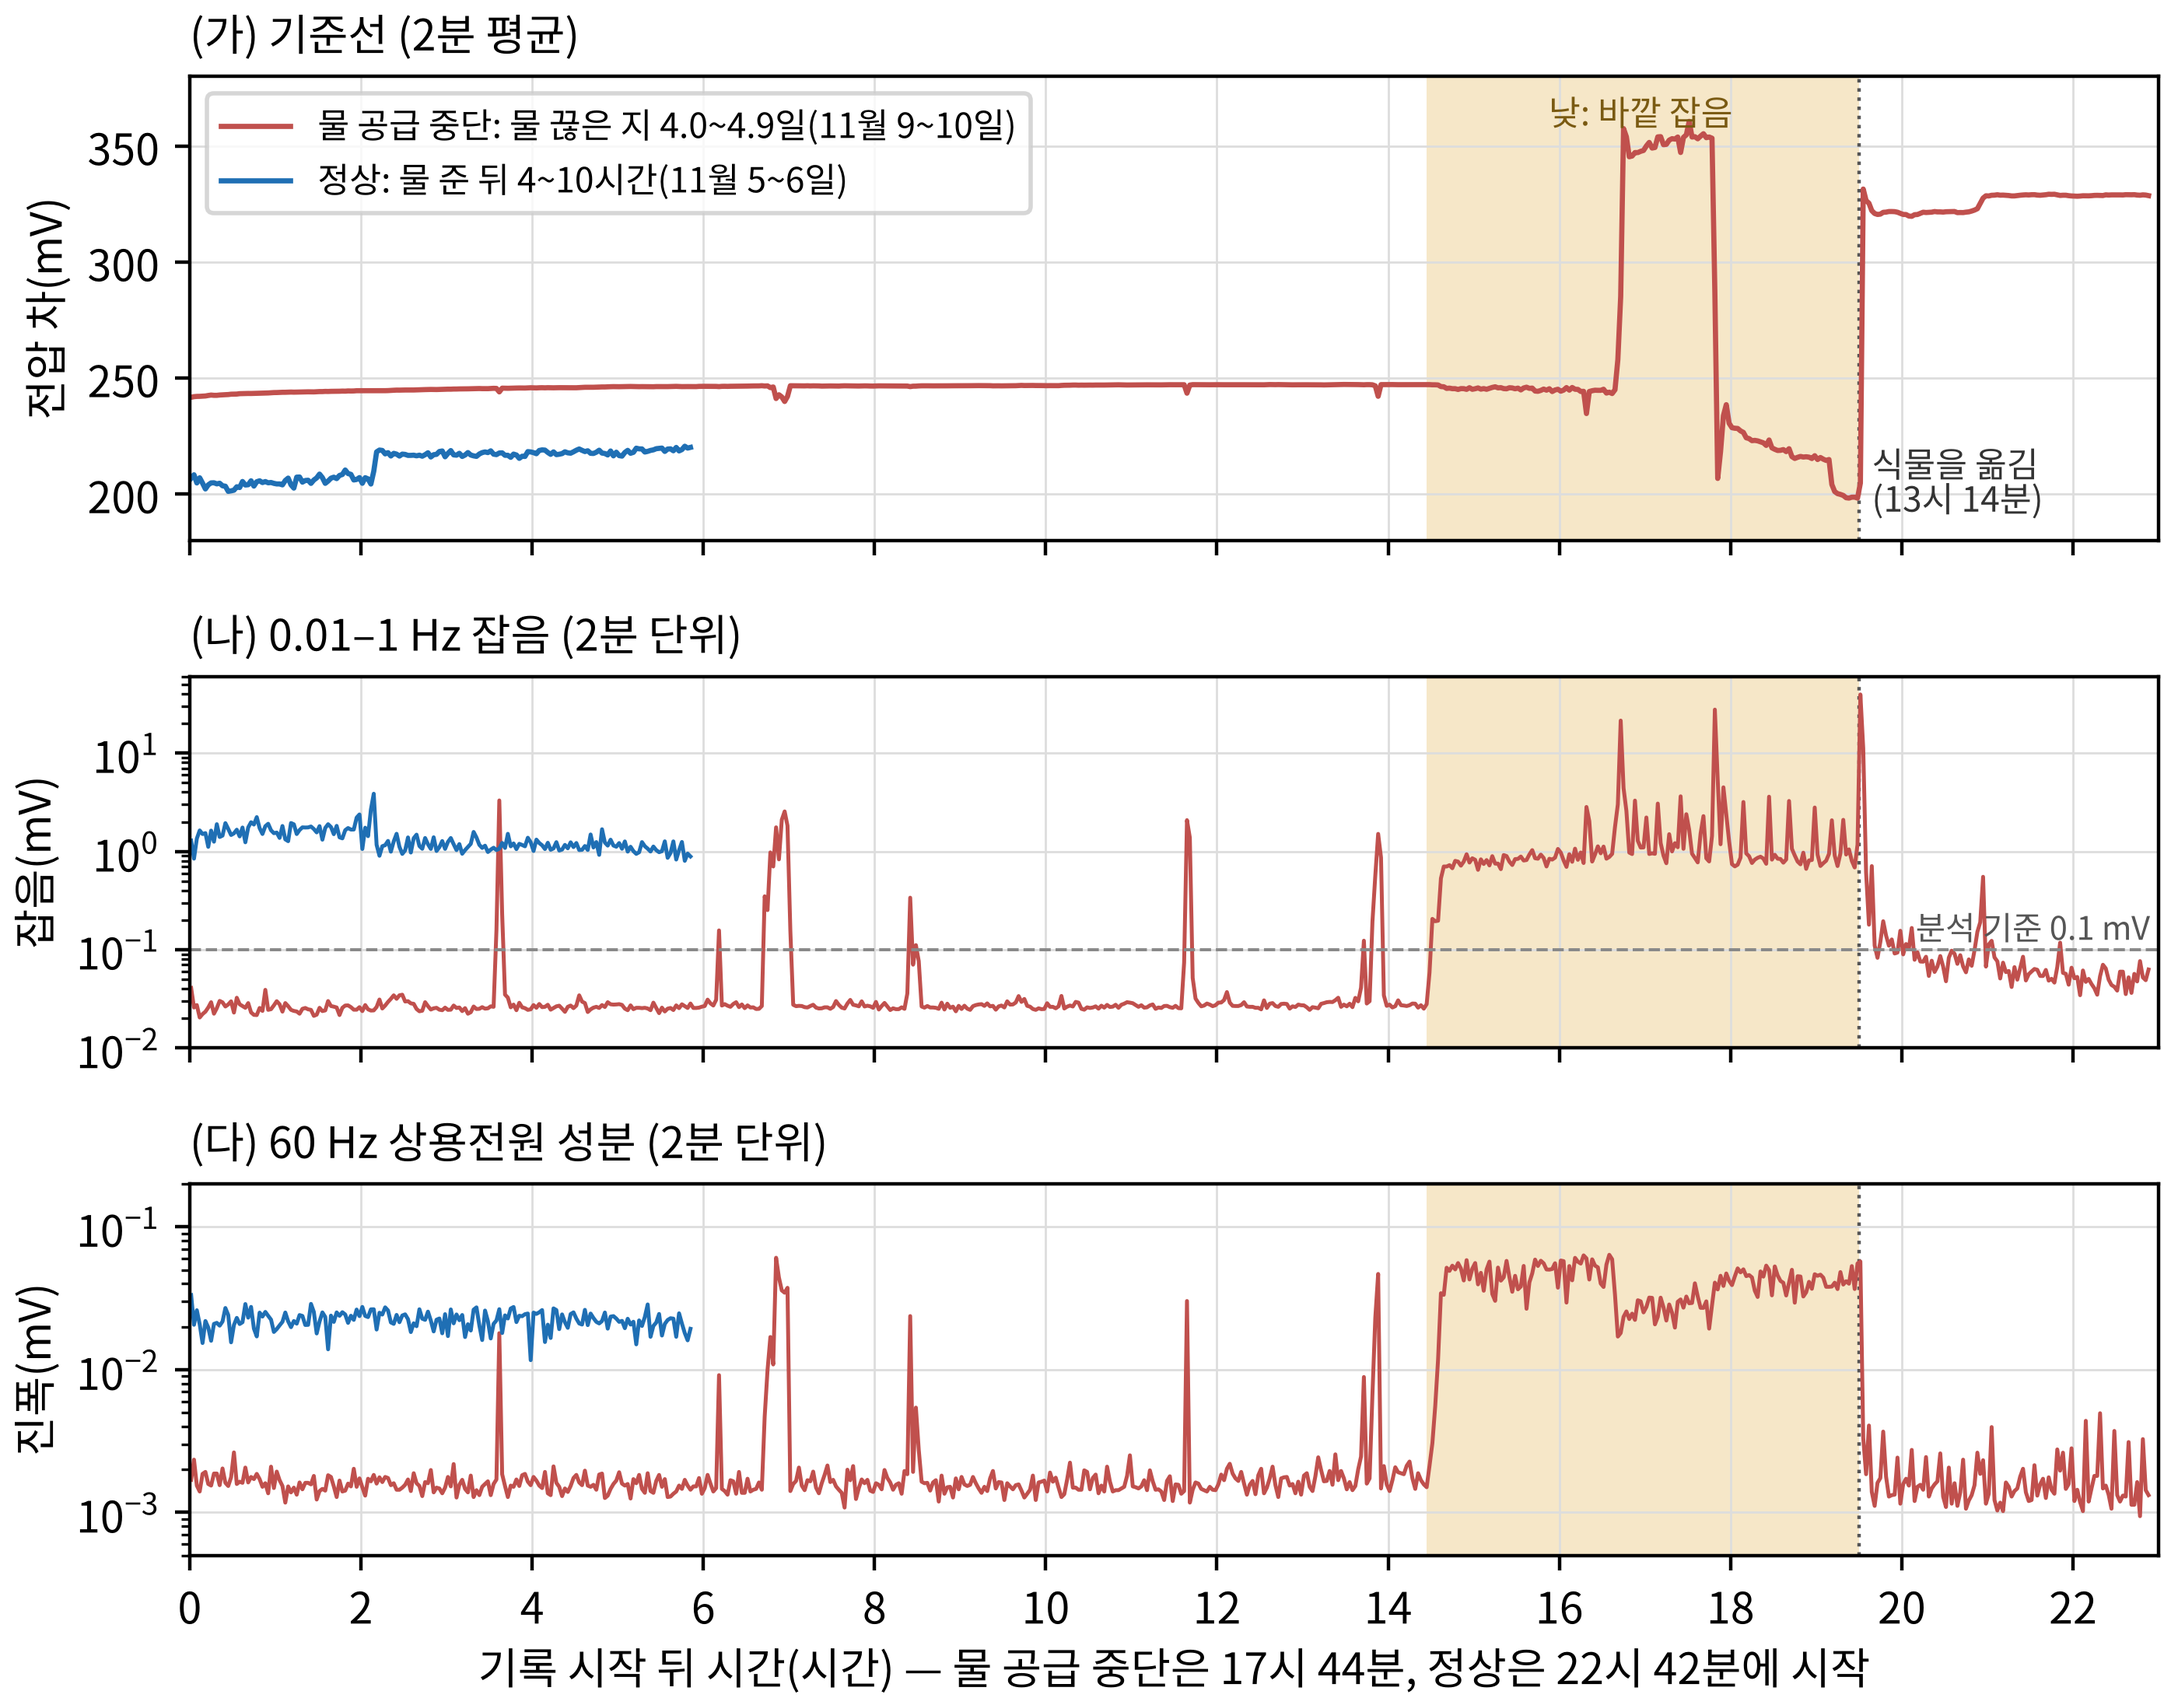
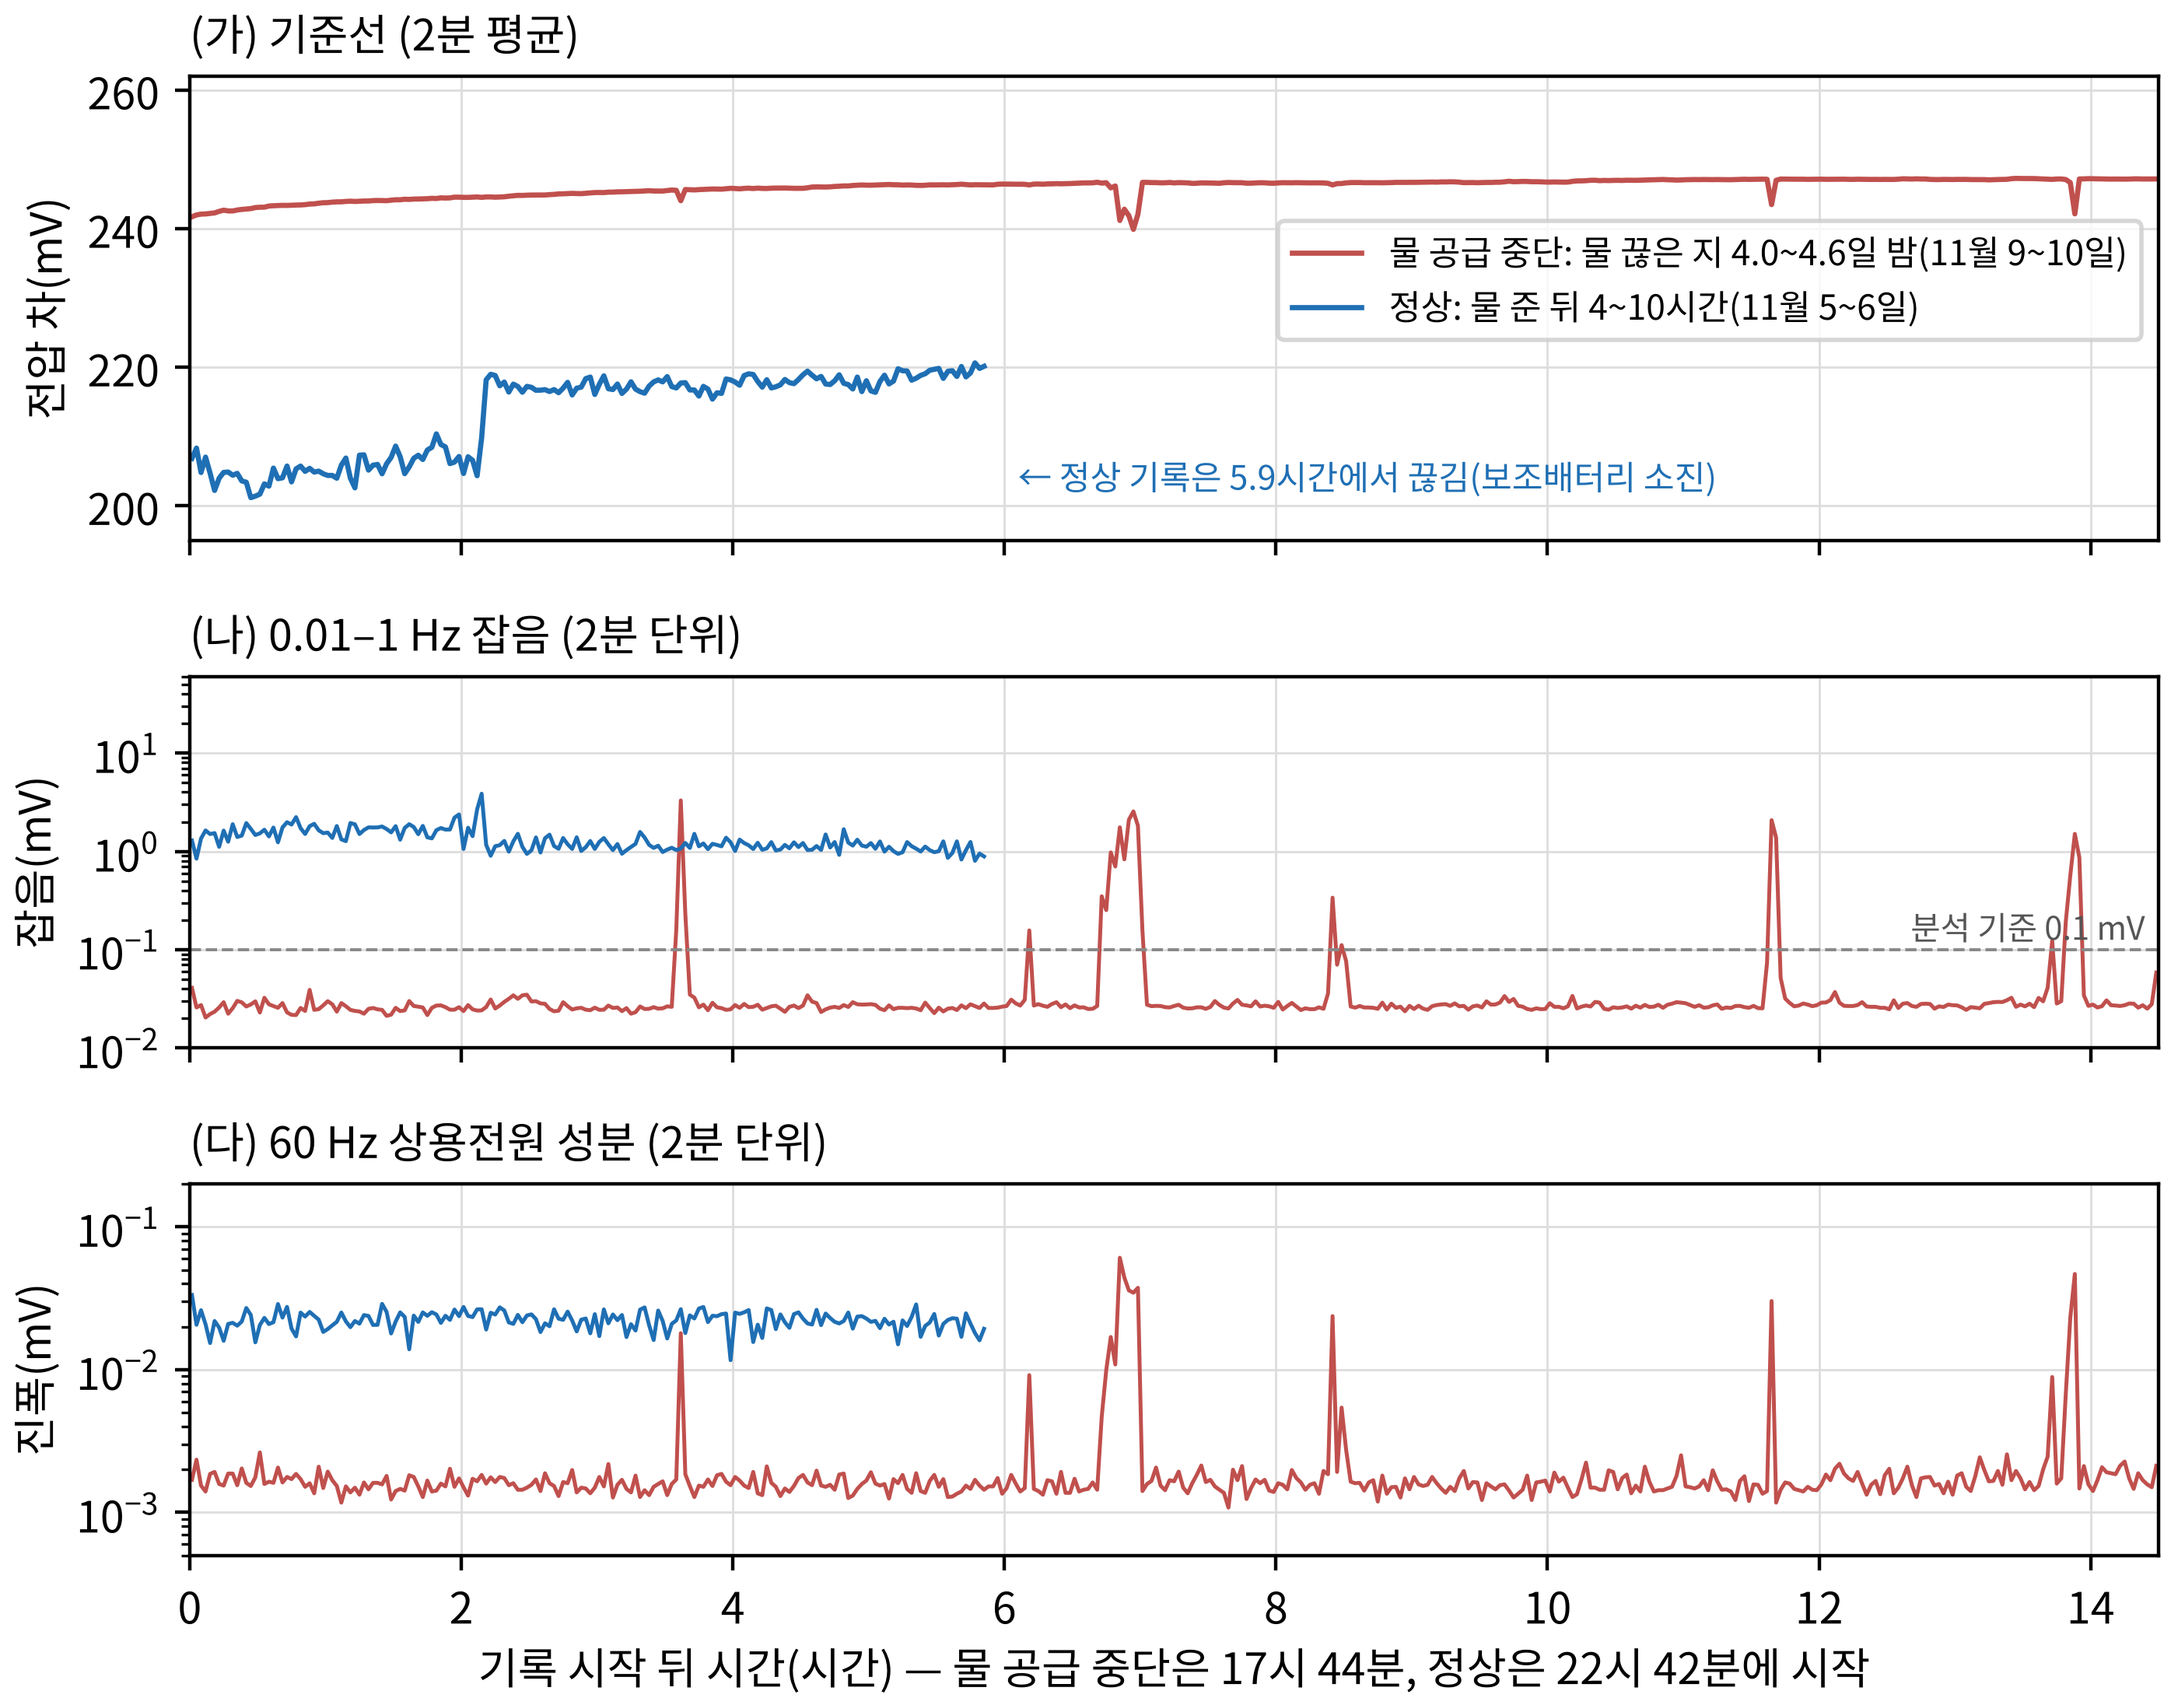
그림4: 물 공급 중단 기록을 분석에 쓴 밤 14.5시간만, 정상 5.9시간에서 끊긴 것 표시
Claude-Session: https://claude.ai/code/session_01JhQkgfdzNkTpKPSBfVdw6o

diff --git a/report/stim/fig_newplant.py b/report/stim/fig_newplant.py
@@ -19,26 +19,23 @@ C_OK, C_DRY = "#1f6fb4", "#c0504d"
 d = json.load(open(os.path.join(os.path.dirname(__file__), "newplant_stats.json"), encoding="utf-8"))
 col = lambda n, k: np.array([r[k] for r in d[n]["rows"]])
 fig, ax = plt.subplots(3, 1, figsize=(7.2, 5.7), sharex=True, gridspec_kw=dict(height_ratios=[1.25, 1, 1]))
-SPAN = [(14.45, 19.5, "#f3e3c3"), ]
-for a in ax:
-    a.axvspan(14.45, 19.5, color="#f6e7c8", lw=0)
-    a.axvline(19.5, color="#555555", lw=0.8, ls=":")
-for n, c, lab in (("수분부족", C_DRY, "물 공급 중단: 물 끊은 지 4.0~4.9일(11월 9~10일)"), ("정상_6", C_OK, "정상: 물 준 뒤 4~10시간(11월 5~6일)")):
+TEND = 14.5   # 물 공급 중단 기록은 분석에 쓴 밤 14.5시간만(11-10 08:18 이후 낮 잡음·식물 옮김 구간은 뺌, 2026-11-17)
+for n, c, lab in (("수분부족", C_DRY, "물 공급 중단: 물 끊은 지 4.0~4.6일 밤(11월 9~10일)"), ("정상_6", C_OK, "정상: 물 준 뒤 4~10시간(11월 5~6일)")):
     t = col(n, "t") / 3600 + 1 / 60
-    ax[0].plot(t, col(n, "mean"), color=c, lw=1.2, label=lab)
-    ax[1].semilogy(t, col(n, "rms"), color=c, lw=0.9)
-    ax[2].semilogy(t, col(n, "a60"), color=c, lw=0.9)
-ax[0].set_ylabel("전압 차(mV)"); ax[0].set_ylim(180, 380); ax[0].legend(loc="upper left", fontsize=8)
+    k = t <= TEND
+    ax[0].plot(t[k], col(n, "mean")[k], color=c, lw=1.2, label=lab)
+    ax[1].semilogy(t[k], col(n, "rms")[k], color=c, lw=0.9)
+    ax[2].semilogy(t[k], col(n, "a60")[k], color=c, lw=0.9)
+ax[0].set_ylabel("전압 차(mV)"); ax[0].set_ylim(195, 262); ax[0].legend(loc="center right", bbox_to_anchor=(1.0, 0.56), fontsize=8)
 ax[0].set_title("(가) 기준선 (2분 평균)", loc="left", fontsize=10)
-ax[0].text(16.95, 372, "낮: 바깥 잡음", ha="center", va="top", fontsize=8, color="#7a5a12")
-ax[0].text(19.65, 205, "식물을 옮김\n(13시 14분)", ha="left", va="center", fontsize=8, color="#333333")
-ax[1].axhline(0.1, color="#888888", lw=0.7, ls="--"); ax[1].text(22.9, 0.115, "분석 기준 0.1 mV", ha="right", va="bottom", fontsize=7.5, color="#555555")
+ax[0].text(6.1, 204, "← 정상 기록은 5.9시간에서 끊김(보조배터리 소진)", ha="left", va="center", fontsize=7.8, color=C_OK)
+ax[1].axhline(0.1, color="#888888", lw=0.7, ls="--"); ax[1].text(14.4, 0.115, "분석 기준 0.1 mV", ha="right", va="bottom", fontsize=7.5, color="#555555")
 ax[1].set_ylabel("잡음(mV)"); ax[1].set_ylim(0.01, 60)
 ax[1].set_title("(나) 0.01–1 Hz 잡음 (2분 단위)", loc="left", fontsize=10)
 ax[2].set_ylabel("진폭(mV)"); ax[2].set_ylim(0.0005, 0.2)
 ax[2].set_title("(다) 60 Hz 상용전원 성분 (2분 단위)", loc="left", fontsize=10)
 ax[2].set_xlabel("기록 시작 뒤 시간(시간) — 물 공급 중단은 17시 44분, 정상은 22시 42분에 시작")
-ax[2].set_xlim(0, 23); ax[2].set_xticks(range(0, 24, 2))
+ax[2].set_xlim(0, TEND); ax[2].set_xticks(range(0, 15, 2))
 for a in ax:
     a.grid(True, which="major", color="#dddddd", lw=0.5)
 fig.tight_layout()
